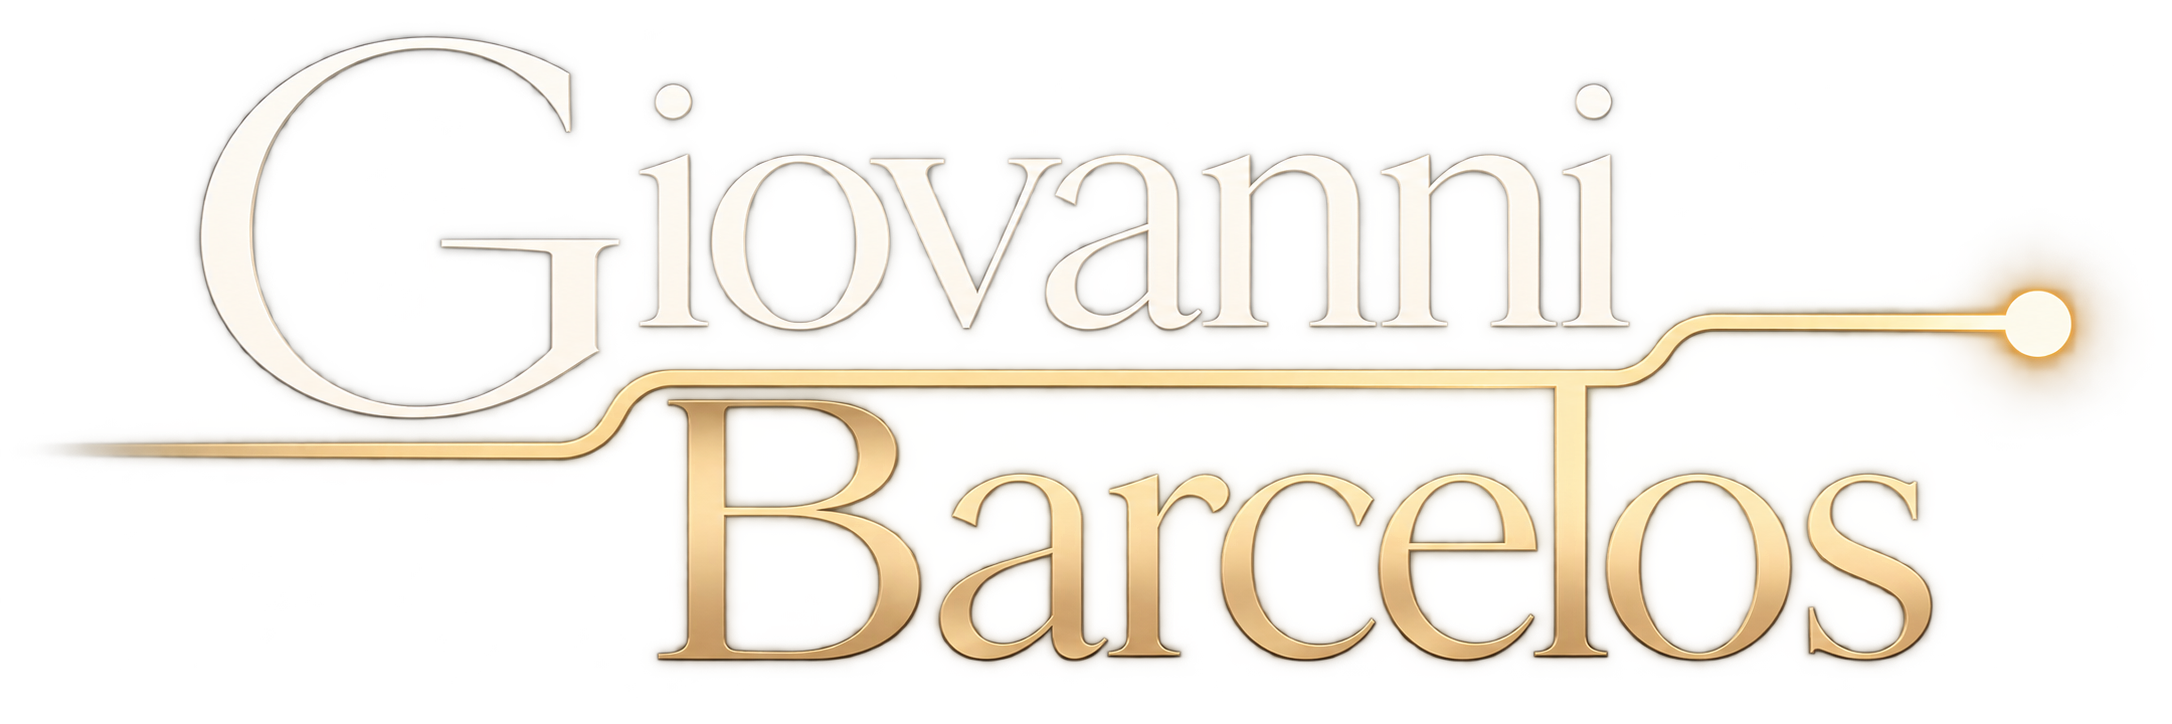
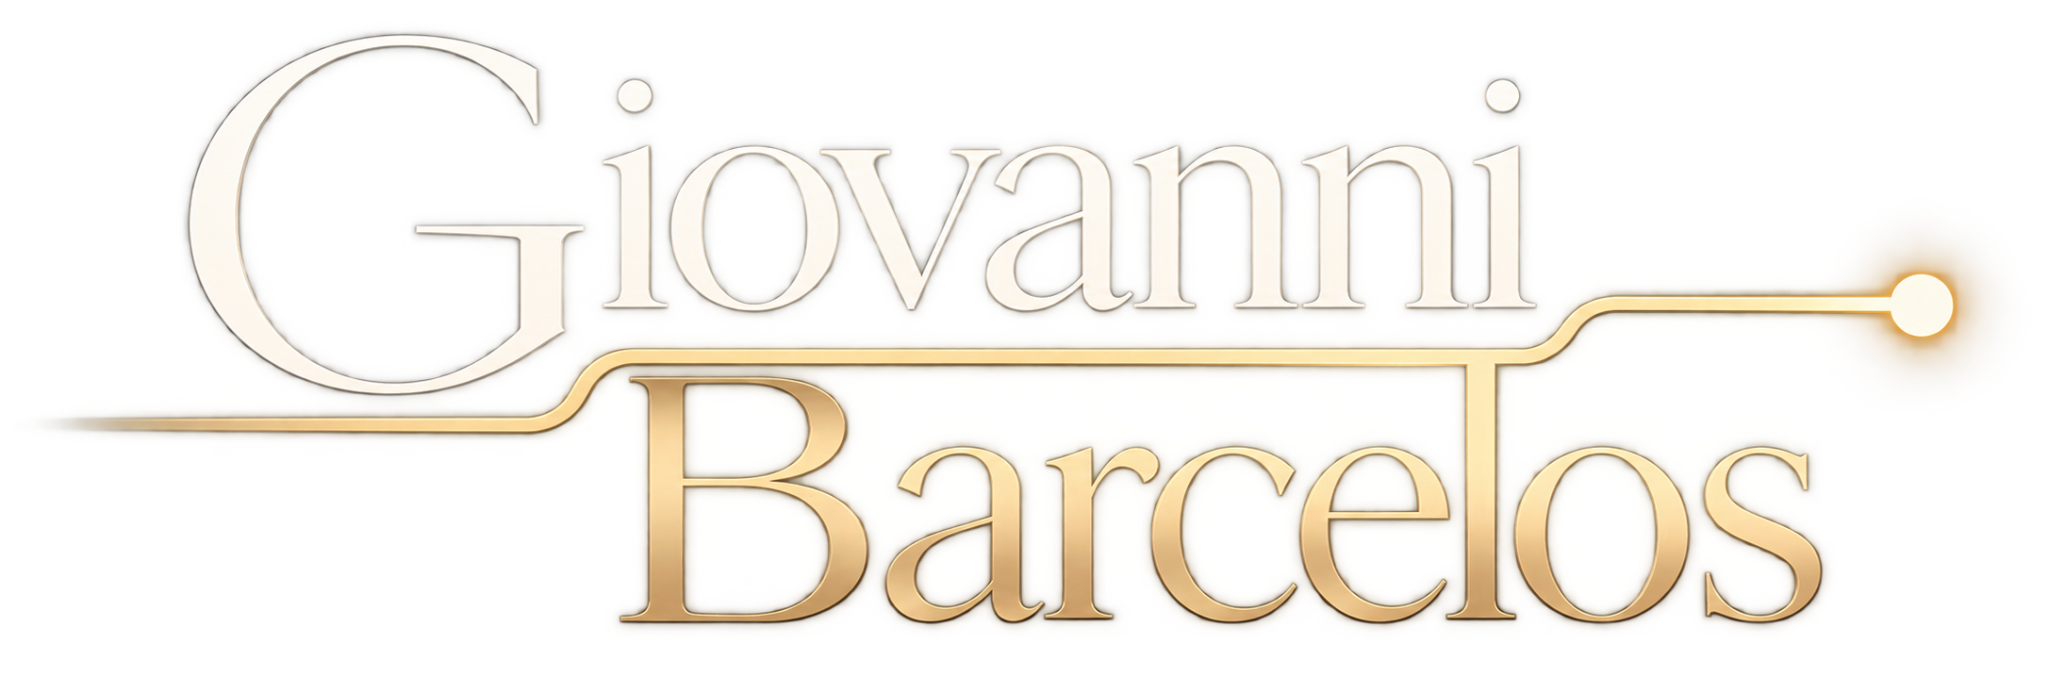
Add canonical remote work section

diff --git a/index.html b/index.html
@@ -35,7 +35,7 @@ button{font:inherit}
 .nav{position:sticky;top:0;z-index:100;background:rgba(11,27,49,.97);backdrop-filter:blur(16px);border-bottom:1px solid rgba(255,255,255,.12);color:white}
 .navin{height:var(--navh);display:flex;align-items:center;justify-content:space-between;gap:22px}
  .brand{display:inline-flex;align-items:center;white-space:nowrap}
- .brand-logo{width:184px;height:auto;display:block;flex:0 0 auto}
+ .brand-logo{width:170px;height:auto;display:block;flex:0 0 auto}
  .links{display:flex;gap:20px;font-size:.82rem;color:#d4dbe5}
  .links a{position:relative;padding:7px 0}
  .links a:hover,.links a[aria-current="true"]{color:white}
@@ -250,15 +250,17 @@ button{font:inherit}
 @media(prefers-reduced-motion:reduce){
   .brand-lockup::after,.footer-lockup::after,.eyebrow,.case-label,.card .num,.artifact-kicker,.artifact-index,.proof-index,.moment .k,.step small,.btn.gold,.lang button.active,.links a[aria-current="true"]::after,.tag,.evidence span,.bullet,.fact,.video-evidence span{animation:none}
 }
+.remote-grid{display:grid;grid-template-columns:minmax(0,.88fr) minmax(0,1.12fr);gap:52px;align-items:center}.remote-grid figure{margin:0}.remote-photo{display:block;width:100%;max-width:470px;height:auto;object-fit:contain;border-radius:9px;box-shadow:var(--shadow);border:1px solid var(--line);justify-self:start}.remote-copy h2{font-size:clamp(2.3rem,4.5vw,4.15rem);line-height:1.02;letter-spacing:-.03em;margin:8px 0 14px;text-wrap:balance}.remote-copy p{font-size:.87rem;color:var(--muted);margin:0 0 13px;max-width:680px}.remote-evidence{display:flex;gap:7px;flex-wrap:wrap;margin:17px 0 18px}.remote-evidence span{font-size:.69rem;padding:6px 8px;border-left:2px solid var(--gold);background:rgba(255,255,255,.36);color:#62583f}.remote-style{display:flex;gap:8px;flex-wrap:wrap}.remote-style span{font-size:.69rem;padding:7px 9px;border:1px solid rgba(184,148,75,.42);border-radius:3px;background:rgba(255,255,255,.32);color:#604f2c}@media(max-width:1000px){.remote-grid{grid-template-columns:1fr;gap:30px}.remote-photo{max-width:620px}.remote-copy{order:2}}@media(max-width:650px){.remote-grid{gap:22px}}
 </style>
 </head>
 <body>
-<nav class="nav"><div class="wrap navin"><a class="brand brand-lockup" href="#top" aria-label="Giovanni Barcelos — top"><img class="brand-logo" src="assets/brand/GIOVANNI_BARCELOS_OFFICIAL.png" alt="Giovanni Barcelos"></a><div class="links" id="nav-links"><a href="#capabilities" data-i18n="nav.capabilities">Capabilities</a><a href="#work" data-i18n="nav.work">Work</a><a href="#video" data-video-i18n="nav">Video</a><a href="#journey" data-i18n="nav.journey">Journey</a><a href="#capability-expansion" data-i18n="nav.expansion">Expansion</a><a href="#highlights" data-i18n="nav.moments">Highlights</a><a href="#about" data-i18n="nav.about">About</a><a href="#resume" data-i18n="nav.resume">Resume</a><a href="#contact" data-i18n="nav.contact">Contact</a></div><button class="nav-toggle" type="button" aria-expanded="false" aria-controls="nav-links">Menu</button><div class="lang"><button data-setlang="en" class="active">EN</button><button data-setlang="pt">PT</button><button data-setlang="es">ES</button></div></div></nav>
+<nav class="nav"><div class="wrap navin"><a class="brand brand-lockup" href="#top" aria-label="Giovanni Barcelos — top"><img class="brand-logo" src="assets/brand/GIOVANNI_BARCELOS_OFFICIAL.png" alt="Giovanni Barcelos"></a><div class="links" id="nav-links"><a href="#capabilities" data-i18n="nav.capabilities">Capabilities</a><a href="#remote" data-i18n="nav.remote">Remote Work</a><a href="#work" data-i18n="nav.work">Work</a><a href="#video" data-video-i18n="nav">Video</a><a href="#journey" data-i18n="nav.journey">Journey</a><a href="#capability-expansion" data-i18n="nav.expansion">Expansion</a><a href="#highlights" data-i18n="nav.moments">Highlights</a><a href="#about" data-i18n="nav.about">About</a><a href="#resume" data-i18n="nav.resume">Resume</a><a href="#contact" data-i18n="nav.contact">Contact</a></div><button class="nav-toggle" type="button" aria-expanded="false" aria-controls="nav-links">Menu</button><div class="lang"><button data-setlang="en" class="active">EN</button><button data-setlang="pt">PT</button><button data-setlang="es">ES</button></div></div></nav>
 <main id="top">
 <section class="screen paper hero"><div class="wrap hero-grid"><div><div class="eyebrow" data-i18n="hero.kicker">OPERATIONS · SYSTEMS · AUTOMATION</div><h1 class="serif" data-i18n="hero.title">I turn operational friction into practical systems that make work move.</h1><p data-i18n="hero.body">A multidisciplinary professional connecting business operations, U.S. real estate, CRM, customer journeys, digital workflows and AI-assisted systems — backed by a career built across sales, marketing, teaching, hospitality and hands-on execution.</p><div class="tags"><span class="tag" data-i18n="chip.1">Business Operations</span><span class="tag" data-i18n="chip.2">Systems &amp; Automation</span><span class="tag" data-i18n="chip.3">U.S. Real Estate</span><span class="tag" data-i18n="chip.4">CRM &amp; Customer Journey</span><span class="tag" data-i18n="chip.5">EN Fluent C1 · PT Native · ES Intermediate</span><span class="tag" data-i18n="chip.6">Transaction Coordination</span><span class="tag" data-i18n="chip.7">Video Editing</span><span class="tag" data-i18n="chip.8">Sales Prospecting</span><span class="tag" data-i18n="chip.9">Self-Directed Learner</span><span class="tag" data-i18n="chip.10">Clear Communicator</span><span class="tag" data-i18n="chip.11">Reliable Follow-Through</span></div><div class="actions"><a class="btn gold" href="#work" data-i18n="hero.cta1">View selected work</a><a class="btn ghost" href="mailto:giovannibarcelos@gmail.com" data-i18n="hero.cta2">Contact</a></div></div><div><img class="hero-photo" src="assets/photos/02_primary_about_no_glasses.png" alt="Giovanni Barcelos"></div></div></section>
 
 <section id="capabilities" class="screen ivory"><div class="wrap"><div class="capability-feature"><div class="section-head"><div class="eyebrow" data-i18n="cap.kicker">CAPABILITIES</div><div><h2 class="serif" data-i18n="cap.title">Different environments. One recurring way of working.</h2><p class="intro" data-i18n="cap.body">Learn the operation, identify friction, connect information and reduce avoidable manual work. The tools change; the operating logic is consistent.</p></div></div><figure class="capability-feature-media"><img src="assets/photos/13_professional-photo.png" data-i18n-alt="cap2.alt" alt="Giovanni Barcelos reviewing post-it notes on an operational board"></figure></div><div class="cap-grid"><div class="card"><div class="num">01</div><h3 data-i18n="cap1.t">Business Operations</h3><p data-i18n="cap1.b">Coordination, documentation, schedules, follow-up, handoffs and cross-functional execution.</p></div><div class="card"><div class="num">02</div><h3 data-i18n="cap2.t">Systems &amp; Automation</h3><p data-i18n="cap2.b">Custom workflows, CRM logic, operational controls and AI-assisted tools built around real work.</p></div><div class="card"><div class="num">03</div><h3 data-i18n="cap3.t">U.S. Real Estate Operations</h3><p data-i18n="cap3.b">Buyer and seller transaction coordination, MLS Canopy, SkySlope, Zillow Showcase and CMA support.</p></div><div class="card"><div class="num">04</div><h3 data-i18n="cap4.t">Customer Journey &amp; CRM</h3><p data-i18n="cap4.b">Lead intake, pipeline organization, follow-up, marketing triggers and continuity through closing.</p></div><div class="card"><div class="num">05</div><h3 data-i18n="cap5.t">Digital &amp; Web</h3><p data-i18n="cap5.b">WordPress, legacy preservation, SEO content, YouTube workflows and digital production.</p></div><div class="card"><div class="num">06</div><h3 data-i18n="cap6.t">Communication, Sales &amp; Client Support</h3><p data-i18n="cap6.b">English/Portuguese communication, teaching, interpretation, sales prospecting, marketing and client support.</p></div></div></div></section>
 
+<section id="remote" class="screen paper"><div class="wrap remote-grid"><figure><img class="remote-photo" src="assets/photos/GB_REMOTE_WORK_PHOTO_ORIGINAL_DO_NOT_EDIT.png" data-i18n-alt="remote.photoAlt" alt="Giovanni Barcelos working remotely from Brazil while reviewing an operational workflow"></figure><div class="remote-copy"><div class="case-label" data-i18n="remote.kicker">REMOTE WORK</div><h2 class="serif" data-i18n="remote.title">Remote work is where my experience and the way I work naturally meet.</h2><p data-i18n="remote.body1">For nearly three years, I supported U.S. real estate operations across North and South Carolina while working fully remotely from Brazil. Transaction coordination, calendars, email, documentation, listings, CRM data and executive/client support all depended on clear communication, organized information and reliable follow-through across distance.</p><p data-i18n="remote.body2">That experience reinforced a working model that fits how I operate: autonomy, clear communication, organization and accountability. Today, I am especially interested in remote opportunities where I can bring that same consistency to new operations and teams.</p><div class="remote-evidence"><span data-i18n="remote.e1">100% remote U.S. real estate operations · Nov 2023–Jul 2026</span><span data-i18n="remote.e2">North Carolina + South Carolina</span><span data-i18n="remote.e3">Independent digital work · since 2014</span><span data-i18n="remote.e4">English Fluent C1 · Portuguese Native · Spanish Intermediate</span></div><div class="remote-style"><span data-i18n="remote.s1">Self-Directed Learner</span><span data-i18n="remote.s2">Clear Communicator</span><span data-i18n="remote.s3">Reliable Follow-Through</span></div></div></div></section>
 <section id="work" class="screen paper"><div class="wrap case-grid case-workflow"><div><img class="case-photo top" src="assets/photos/22_professional-photo.png" data-i18n-alt="cap1.alt" alt="Giovanni Barcelos structuring an operational workflow at a desk"></div><div class="case-copy"><div class="case-label" data-i18n="case1.tag">WORK 01 · REAL ESTATE OPERATIONS</div><h2 class="serif" data-i18n="case1.t">From fragmented tasks to an end-to-end operating workflow.</h2><p data-i18n="case1.b">While supporting a U.S. real estate business, I connected lead intake, CRM data, marketing coordination, buyer and seller transaction coordination, closing records, time tracking and finance support into a tailored operational workflow instead of relying on disconnected manual steps.</p><div class="evidence"><span data-i18n="case1.p1">RE/MAX remote operations · 2023–2026</span><span data-i18n="case1.p2">MLS Canopy · SkySlope · Zillow Showcase</span></div></div><div class="flow"><div class="node"><b data-i18n="case1.a1">Lead → CRM</b><span data-i18n="case1.a2">Structured intake and organized data.</span></div><div class="node"><b data-i18n="case1.b1">CRM → Listings &amp; Marketing</b><span data-i18n="case1.b2">Coordinate listing information, campaign inputs and follow-up across the pipeline.</span></div><div class="node"><b data-i18n="case1.c1">Buyer/Seller → Transaction Flow</b><span data-i18n="case1.c2">Keep buyer and seller handoffs moving from contract through closing.</span></div><div class="node"><b data-i18n="case1.d1">Closing → Records &amp; Continuity</b><span data-i18n="case1.d2">Maintain closing records, time tracking and the next operational handoff.</span></div></div></div></section>
 
 <section class="screen sand"><div class="wrap case-grid case-process"><div class="case-copy"><div class="case-label" data-i18n="case2.tag">WORK 02 · RECURRENT SPREADSHEET</div><h2 class="serif" data-i18n="case2.t">A Recurrent Spreadsheet became a reusable operational tool.</h2><p data-i18n="case2.b">Instead of repeatedly handling a Recurrent Spreadsheet as a static document, I converted its logic into a lightweight workflow built with HTML and Google tools. I redesigned the process to capture information once, reduce repetitive handling and allow transaction data to feed later operational steps.</p><div class="evidence"><span data-i18n="case2.p1">Recurring seller-side workflow</span><span data-i18n="case2.p2">Data capture · storage · operational triggers</span></div><div class="bullet-grid"><div class="bullet"><b data-i18n="case2.a1">Capture once</b><span data-i18n="case2.a2">Relevant information could be structured instead of repeatedly retyped.</span></div><div class="bullet"><b data-i18n="case2.b1">Automatic handoffs</b><span data-i18n="case2.b2">Captured data could feed subsequent marketing and transaction work.</span></div><div class="bullet"><b data-i18n="case2.c1">Reusable logic</b><span data-i18n="case2.c2">A recurring document became part of a repeatable workflow.</span></div><div class="bullet"><b data-i18n="case2.d1">Fewer manual steps</b><span data-i18n="case2.d2">The required process stayed intact while repetitive handling was reduced.</span></div></div></div><div class="case-artifact"><div class="artifact-kicker" data-i18n="case2.vk">OPERATIONAL LOOP</div><h3 class="serif" data-i18n="case2.vt">Capture once. Reuse across the workflow.</h3><p class="artifact-intro" data-i18n="case2.vb">A recurring spreadsheet works best when its information can move forward without being rebuilt at every step.</p><div class="artifact-flow"><div class="artifact-step"><span class="artifact-index">01</span><div><b data-i18n="case2.v1t">Capture</b><span data-i18n="case2.v1b">Gather the recurring information in one structured entry.</span></div></div><div class="artifact-step"><span class="artifact-index">02</span><div><b data-i18n="case2.v2t">Validate</b><span data-i18n="case2.v2b">Keep the inputs consistent before the next handoff.</span></div></div><div class="artifact-step"><span class="artifact-index">03</span><div><b data-i18n="case2.v3t">Reuse</b><span data-i18n="case2.v3b">Carry the organized data into later operational steps.</span></div></div></div></div></div></section>
@@ -435,6 +437,9 @@ Object.assign(T.es,{"chip.1":"Operaciones","chip.2":"Sistemas Y Automatización"
   "resume.body":"Elige la versión ATS en inglés, portugués o español.",
   "cta.body":"Operaciones, sistemas, implementación, soporte ejecutivo, atención al cliente, operaciones inmobiliarias, CRM y operaciones digitales son relevantes cuando el trabajo se beneficia de organización, iniciativa y mejora de procesos."
  });
+Object.assign(T.en,{"nav.remote":"Remote Work","remote.kicker":"REMOTE WORK","remote.title":"Remote work is where my experience and the way I work naturally meet.","remote.body1":"For nearly three years, I supported U.S. real estate operations across North and South Carolina while working fully remotely from Brazil. Transaction coordination, calendars, email, documentation, listings, CRM data and executive/client support all depended on clear communication, organized information and reliable follow-through across distance.","remote.body2":"That experience reinforced a working model that fits how I operate: autonomy, clear communication, organization and accountability. Today, I am especially interested in remote opportunities where I can bring that same consistency to new operations and teams.","remote.e1":"100% remote U.S. real estate operations · Nov 2023–Jul 2026","remote.e2":"North Carolina + South Carolina","remote.e3":"Independent digital work · since 2014","remote.e4":"English Fluent C1 · Portuguese Native · Spanish Intermediate","remote.s1":"Self-Directed Learner","remote.s2":"Clear Communicator","remote.s3":"Reliable Follow-Through","remote.photoAlt":"Giovanni Barcelos working remotely from Brazil while reviewing an operational workflow","cta.kicker":"OPEN TO REMOTE WORK"});
+Object.assign(T.pt,{"nav.remote":"Remoto","remote.kicker":"TRABALHO REMOTO","remote.title":"Trabalho remoto é onde minha experiência e minha forma de trabalhar se encontram naturalmente.","remote.body1":"Por quase três anos, apoiei operações imobiliárias nos Estados Unidos, na Carolina do Norte e na Carolina do Sul, trabalhando 100% remotamente do Brasil. Coordenação de transações, agendas, e-mails, documentação, imóveis/listings, dados de CRM e suporte executivo e a clientes dependiam de comunicação clara, informação organizada e acompanhamento confiável, mesmo à distância.","remote.body2":"Essa experiência consolidou um modelo de trabalho que combina com a forma como opero: autonomia, comunicação clara, organização e responsabilidade. Hoje, tenho especial interesse em oportunidades remotas nas quais eu possa levar essa mesma consistência para novas operações e equipes.","remote.e1":"Operações imobiliárias nos EUA · 100% remoto · nov/2023–jul/2026","remote.e2":"Carolina do Norte + Carolina do Sul","remote.e3":"Trabalho digital independente · desde 2014","remote.e4":"Inglês Fluente C1 · Português Nativo · Espanhol Intermediário","remote.s1":"Aprendo com autonomia","remote.s2":"Comunico com clareza","remote.s3":"Levo até o fim","remote.photoAlt":"Giovanni Barcelos trabalhando remotamente do Brasil enquanto revisa um fluxo operacional","cta.kicker":"DISPONÍVEL PARA TRABALHO REMOTO"});
+Object.assign(T.es,{"nav.remote":"Remoto","remote.kicker":"TRABAJO REMOTO","remote.title":"El trabajo remoto es donde mi experiencia y mi forma de trabajar se encuentran de manera natural.","remote.body1":"Durante casi tres años apoyé operaciones inmobiliarias en Estados Unidos, en Carolina del Norte y Carolina del Sur, trabajando de forma 100 % remota desde Brasil. La coordinación de transacciones, agendas, correo electrónico, documentación, inmuebles/listings, datos de CRM y soporte ejecutivo y a clientes dependían de una comunicación clara, información organizada y seguimiento confiable a distancia.","remote.body2":"Esa experiencia consolidó un modelo de trabajo que encaja con mi forma de operar: autonomía, comunicación clara, organización y responsabilidad. Hoy tengo especial interés en oportunidades remotas donde pueda aportar esa misma consistencia a nuevas operaciones y equipos.","remote.e1":"Operaciones inmobiliarias en EE. UU. · 100 % remoto · nov/2023–jul/2026","remote.e2":"Carolina del Norte + Carolina del Sur","remote.e3":"Trabajo digital independiente · desde 2014","remote.e4":"Inglés Fluido C1 · Portugués Nativo · Español Intermedio","remote.s1":"Aprendo con autonomía","remote.s2":"Comunico con claridad","remote.s3":"Llevo las cosas hasta el final","remote.photoAlt":"Giovanni Barcelos trabajando remotamente desde Brasil mientras revisa un flujo operativo","cta.kicker":"DISPONIBLE PARA TRABAJO REMOTO"});
  document.querySelectorAll("[data-setlang]").forEach(button=>button.addEventListener("click",()=>{closeNav();setLang(button.dataset.setlang);setVideoLang(button.dataset.setlang)}));
 setLang(localStorage.getItem("gb-lang")||"en");
 const navToggle=document.querySelector('.nav-toggle');
